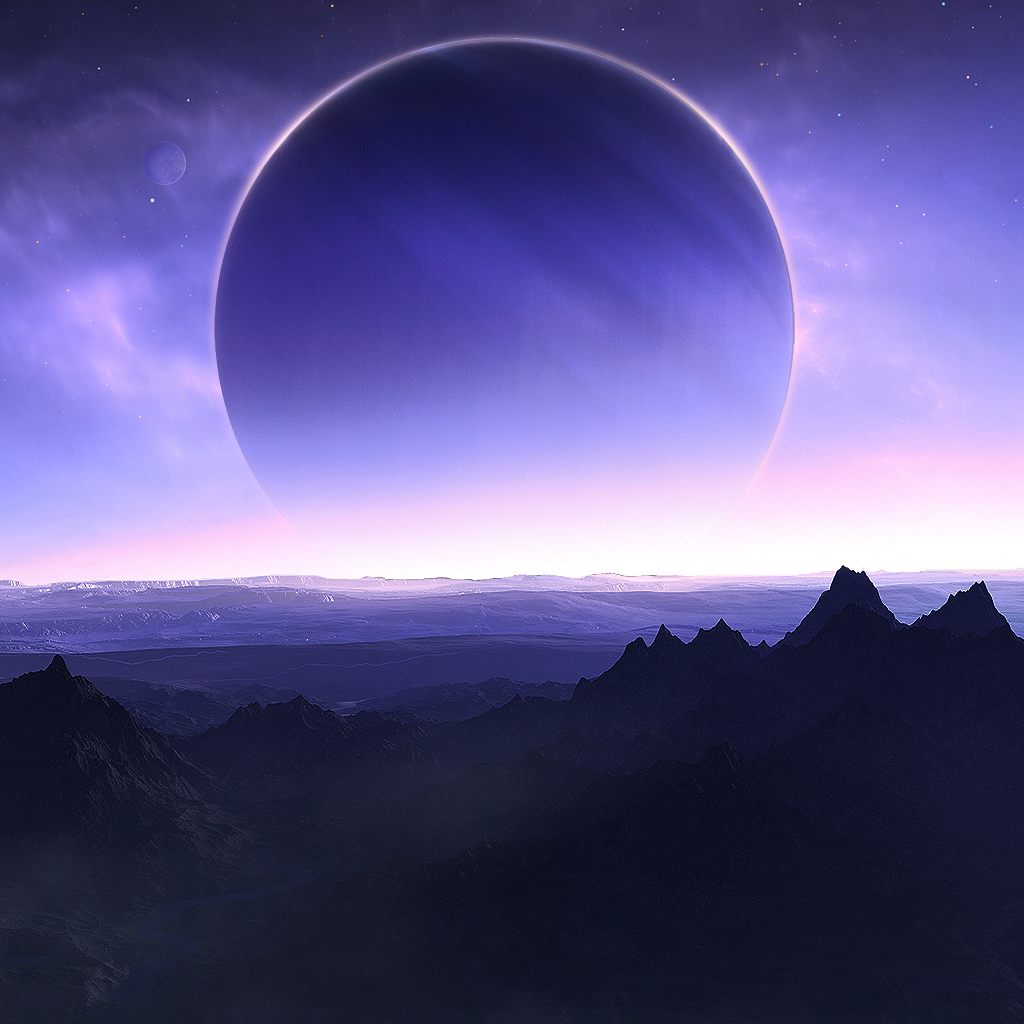
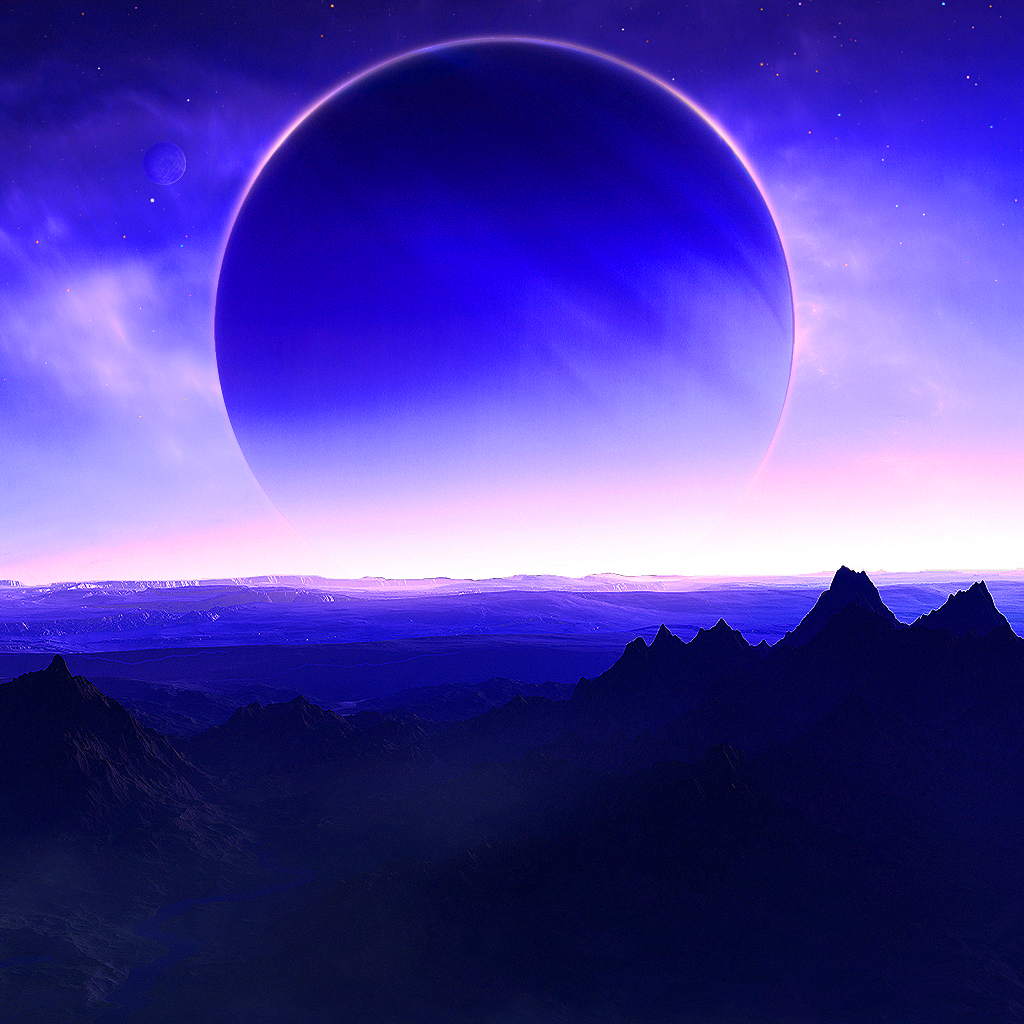
CubeMap is now rendering!!

diff --git a/public/app/renderer/WebGLRenderer.js b/public/app/renderer/WebGLRenderer.js
@@ -10,8 +10,8 @@ Ext.define('MW.renderer.WebGLRenderer', {
         'MW.buffer.Vertex',
         'MW.buffer.Normal',
         'MW.buffer.Face',
-        'MW.buffer.Texture',
-	    'MW.buffer.Environment'
+        'MW.buffer.TextureCoordinate',
+	    'MW.buffer.EnvironmentCoordinate'
     ],
 	config: {
 		gl: null,
@@ -72,11 +72,15 @@ Ext.define('MW.renderer.WebGLRenderer', {
             shaderProgram.nMatrixUniform = gl.getUniformLocation(shaderProgram, "uNMatrix");
             shaderProgram.useTextureUniform = gl.getUniformLocation(shaderProgram, "useTexture");
             shaderProgram.useLightingUniform = gl.getUniformLocation(shaderProgram, "useLighting");
+			shaderProgram.useEnvironmentMapUniform = gl.getUniformLocation(shaderProgram, "useEnvironmentMap");
 
             shaderProgram.uLightPos = gl.getUniformLocation(shaderProgram, "uLightPos");
             shaderProgram.uLightColor = gl.getUniformLocation(shaderProgram, "uLightColor");
 
             shaderProgram.uDiffuseColor = gl.getUniformLocation(shaderProgram, "uDiffuseColor");
+
+			shaderProgram.uSampler = gl.getUniformLocation(shaderProgram, "uSampler");
+			shaderProgram.uEnvironmentMap = gl.getUniformLocation(shaderProgram, "uEnvironmentMap");
             this.setShaderProgram(shaderProgram);
             this.fireEvent('loaded');
         });
@@ -133,42 +137,45 @@ Ext.define('MW.renderer.WebGLRenderer', {
 
 		if (object.isRenderable()) {
 			this.bindBuffers(gl, object, shaderProgram);
-			var useTexture = object.textureBuffer !== undefined;
-			var useEnvironmentMap = object.environmentMapBuffer !== undefined;
+			var useTexture = object.hasMaterial() && object.getMaterial().hasTexture();
+			var useEnvironmentMap = object.hasMaterial() && object.getMaterial().hasEnvironmentMap();
             var material = object.getMaterial();
 
             gl.uniform4fv(shaderProgram.uDiffuseColor, material.getColor().getArray());
 
             if (useTexture) {
 	            var texture = material.getTexture();
-	            if (texture !== null && texture.isLoaded() && object.textureBuffer.texture === undefined) {
-		            object.textureBuffer.texture = this.loadTexture(gl, object, texture);
+	            if (texture !== null && texture.isLoaded() && object.__webglTexture === undefined) {
+		            object.__webglTexture = this.loadTexture(gl, object, texture);
 	            }
             }
 
 			if (useEnvironmentMap) {
 				var environmentMap = material.getEnvironmentMap();
 				if (environmentMap.isLoaded()) {
-					if (object.texture === undefined) {
-						this.loadEnvironmentMap(gl, object, environmentMap);
+					if (object.__webglEnvironmentMap === undefined) {
+						object.__webglEnvironmentMap = this.loadEnvironmentMap(gl, object, environmentMap);
 					}
 					this.applyEnvironmentMap(gl, object, shaderProgram);
-					gl.uniform1i(shaderProgram.useTextureUniform, 1);
+					gl.uniform1i(shaderProgram.useTextureUniform, 0);
+					gl.uniform1i(shaderProgram.useEnvironmentMapUniform, 1);
 				}
 			}
-			else if (useTexture && texture !== null && texture.isLoaded()) {
+			else if (useTexture && material.getTexture().isLoaded()) {
                 this.applyTexture(gl, object, shaderProgram);
                 gl.uniform1i(shaderProgram.useTextureUniform, 1);
+				gl.uniform1i(shaderProgram.useEnvironmentMapUniform, 0);
 			} else {
                 gl.disableVertexAttribArray(shaderProgram.textureCoordAttribute);
                 gl.uniform1i(shaderProgram.useTextureUniform, 0);
+				gl.uniform1i(shaderProgram.useEnvironmentMapUniform, 0);
 			}
 
             gl.uniform1i(shaderProgram.useLightingUniform, material.getUseLighting());
 
 			// Update the WebGL uniforms and then draw the object on the screen
 			this.updateUniforms(gl, shaderProgram, cursorCopy, camera);
-			gl.drawElements(gl.TRIANGLES, object.faceBuffer.numItems * object.faceBuffer.itemSize, gl.UNSIGNED_SHORT, 0);
+			gl.drawElements(gl.TRIANGLES, object.__webglFaceBuffer.numItems, gl.UNSIGNED_SHORT, 0);
 		}
 
 		this.renderChildren(gl, object, shaderProgram, cursorCopy, camera);
@@ -183,17 +190,17 @@ Ext.define('MW.renderer.WebGLRenderer', {
     bindBuffers: function (gl, object, shaderProgram) {
         this.checkBuffer(gl, object);
         // Update the object position
-        var vertexBuffer = object.vertexBuffer;
+        var vertexBuffer = object.__webglVertexBuffer;
         gl.bindBuffer(gl.ARRAY_BUFFER, vertexBuffer);
         gl.vertexAttribPointer(shaderProgram.vertexPositionAttribute, vertexBuffer.itemSize, gl.FLOAT, false, 0, 0);
 
         // Update the object normals
-        var normalBuffer = object.normalBuffer;
+        var normalBuffer = object.__webglNormalBuffer;
         gl.bindBuffer(gl.ARRAY_BUFFER, normalBuffer);
         gl.vertexAttribPointer(shaderProgram.vertexNormalAttribute, normalBuffer.itemSize, gl.FLOAT, false, 0, 0);
 
         // Update the object faces
-        var faceBuffer = object.faceBuffer;
+        var faceBuffer = object.__webglFaceBuffer;
         gl.bindBuffer(gl.ELEMENT_ARRAY_BUFFER, faceBuffer);
     },
     /**
@@ -203,21 +210,22 @@ Ext.define('MW.renderer.WebGLRenderer', {
      * @param object The object to render
      */
     checkBuffer: function (gl, object) {
-        if (object.vertexBuffer === undefined) {
+        if (object.__webglBuffers !== true) {
             // attach the buffers to the current child object
             var geometry = object.getGeometry();
-            object.vertexBuffer = Ext.create('MW.buffer.Vertex').load(gl, geometry);
-            object.normalBuffer = Ext.create('MW.buffer.Normal').load(gl, geometry);
-            object.faceBuffer = Ext.create('MW.buffer.Face').load(gl, geometry);
+            object.__webglVertexBuffer = Ext.create('MW.buffer.Vertex').load(gl, geometry);
+            object.__webglNormalBuffer = Ext.create('MW.buffer.Normal').load(gl, geometry);
+            object.__webglFaceBuffer = Ext.create('MW.buffer.Face').load(gl, geometry);
 			if (object.hasMaterial()) {
 				var material = object.getMaterial();
 				if (material.hasTexture()) {
-					object.textureBuffer = Ext.create('MW.buffer.Texture').load(gl, object);
+					object.__webglTextureCoordinateBuffer = Ext.create('MW.buffer.TextureCoordinate').load(gl, object);
 				}
 				if (material.hasEnvironmentMap()) {
-					object.environmentMapBuffer = Ext.create('MW.buffer.Environment').load(gl, object);
+					object.__webglEnvironmentCoordinateBuffer = Ext.create('MW.buffer.EnvironmentCoordinate').load(gl, object);
 				}
 			}
+			object.__webglBuffers = true;
         }
     },
     /**
@@ -230,11 +238,12 @@ Ext.define('MW.renderer.WebGLRenderer', {
     applyTexture: function (gl, object, shaderProgram) {
         gl.enableVertexAttribArray(shaderProgram.textureCoordAttribute);
         // Update the object texture
-        var textureBuffer = object.textureBuffer;
-        gl.bindBuffer(gl.ARRAY_BUFFER, textureBuffer);
-        gl.vertexAttribPointer(shaderProgram.textureCoordAttribute, textureBuffer.itemSize, gl.FLOAT, false, 0, 0);
+        var textureCoordinateBuffer = object.__webglTextureCoordinateBuffer;
+		var texture = object.__webglTexture;
+        gl.bindBuffer(gl.ARRAY_BUFFER, textureCoordinateBuffer);
+        gl.vertexAttribPointer(shaderProgram.textureCoordAttribute, textureCoordinateBuffer.itemSize, gl.FLOAT, false, 0, 0);
         gl.activeTexture(gl.TEXTURE0);
-        gl.bindTexture(gl.TEXTURE_2D, textureBuffer.texture);
+        gl.bindTexture(gl.TEXTURE_2D, texture);
         gl.uniform1i(shaderProgram.samplerUniform, 0);
     },
     /**
@@ -269,7 +278,15 @@ Ext.define('MW.renderer.WebGLRenderer', {
 	 * @param shaderProgram The WebGL shader program
 	 */
 	applyEnvironmentMap: function (gl, object, shaderProgram) { // todo too tired to fix dis
-		gl.uniform1i(shaderProgram.samplerUniform, 0); // ??
+		gl.enableVertexAttribArray(shaderProgram.textureCoordAttribute);
+		// Update the object texture
+		var textureCoordinateBuffer = object.__webglEnvironmentCoordinateBuffer;
+		var texture = object.__webglEnvironmentMap;
+		gl.bindBuffer(gl.ARRAY_BUFFER, textureCoordinateBuffer);
+		gl.vertexAttribPointer(shaderProgram.textureCoordAttribute, textureCoordinateBuffer.itemSize, gl.FLOAT, false, 0, 0);
+		gl.activeTexture(gl.TEXTURE1);
+		gl.bindTexture(gl.TEXTURE_CUBE_MAP, texture);
+		gl.uniform1i(shaderProgram.uEnvironmentMap, 1);
 	},
 	/**
 	 * Loads an environment map into WebGL.
@@ -294,7 +311,6 @@ Ext.define('MW.renderer.WebGLRenderer', {
 			[map.getBackImage(), gl.TEXTURE_CUBE_MAP_POSITIVE_Z],
 			[map.getFrontImage(), gl.TEXTURE_CUBE_MAP_NEGATIVE_Z]
 		];
-		object.texture = texture;
 
 		var faces = object.faces;
 		for (var i = 0; i < faces.length; i++) {
@@ -305,6 +321,8 @@ Ext.define('MW.renderer.WebGLRenderer', {
 			gl.texImage2D(face, 0, gl.RGBA, gl.RGBA, gl.UNSIGNED_BYTE, image);
 			gl.bindTexture(gl.TEXTURE_CUBE_MAP, null);
 		}
+
+		return texture;
 	},
 	/**
 	 * Updates the uniform constants given to WebGL

diff --git a/public/app/buffer/EnvironmentCoordinate.js b/public/app/buffer/EnvironmentCoordinate.js
@@ -1,7 +1,7 @@
 /**
  * @author Monica Olejniczak
  */
-Ext.define('MW.buffer.Environment', {
+Ext.define('MW.buffer.EnvironmentCoordinate', {
 	extend: 'MW.buffer.Buffer',
 	constructor: function () {
 		this.callParent(arguments);
@@ -18,11 +18,11 @@ Ext.define('MW.buffer.Environment', {
 			var material = mesh.getMaterial();
 			if (material.hasEnvironmentMap()) {
 				var environmentBuffer = gl.createBuffer();
-				var vertices = mesh.getGeometry().getVertices();
 				gl.bindBuffer(gl.ARRAY_BUFFER, environmentBuffer);
-				gl.bufferData(gl.ARRAY_BUFFER, new Float32Array(vertices), gl.STATIC_DRAW);
-				environmentBuffer.itemSize = this.superclass.self.VERTEX_DIMENSION;
-				environmentBuffer.numItems = vertices.length / environmentBuffer.itemSize;
+				var textureCoordinates = mesh.getGeometry().getFlattenedTextureCoordinates();
+				gl.bufferData(gl.ARRAY_BUFFER, textureCoordinates, gl.STATIC_DRAW);
+				environmentBuffer.itemSize = this.superclass.self.TEXTURE_DIMENSION;
+				environmentBuffer.numItems = textureCoordinates.length / environmentBuffer.itemSize;
 				this.setBuffer(environmentBuffer);
 				return environmentBuffer;
 			}

diff --git a/public/app/game/MechWarrior.js b/public/app/game/MechWarrior.js
@@ -53,13 +53,13 @@ Ext.define('MW.game.MechWarrior', {
             b: 0,
             a: 1
         });
+//		gl = WebGLDebugUtils.makeDebugContext(gl);
 		this.renderer = Ext.create('MW.renderer.WebGLRenderer', {
             gl: gl,
             width: canvas.width,
             height: canvas.height,
             backgroundColor: backgroundColor
 		}).on('loaded', function () {
-            //gl = WebGLDebugUtils.makeDebugContext(gl);
             // load the player model and add it to the scene
             var player = Ext.create('MW.game.character.Player');
             this.camera.setTarget(player);

diff --git a/public/app/buffer/Face.js b/public/app/buffer/Face.js
@@ -20,7 +20,7 @@ Ext.define('MW.buffer.Face', {
         var faces = geometry.getFlattenedFaces();
         gl.bufferData(gl.ELEMENT_ARRAY_BUFFER, faces, gl.STATIC_DRAW);
         faceBuffer.itemSize = this.superclass.self.VERTEX_DIMENSION;
-        faceBuffer.numItems = faces.length / faceBuffer.itemSize;
+        faceBuffer.numItems = faces.length;
         this.setBuffer(faceBuffer);
 		return faceBuffer;
     }

diff --git a/public/app/game/level/Level.js b/public/app/game/level/Level.js
@@ -40,7 +40,8 @@ Ext.define('MW.game.level.Level', {
         this.setPlayers([]);
         this.setObstacles([]);
         this.setProjectiles([]);
-        this.setChildren([floor, skybox]);
+		this.addChild(floor);
+		this.addChild(skybox);
     },
     /**
      * Adds a player to the level.

diff --git a/public/app/buffer/TextureCoordinate.js b/public/app/buffer/TextureCoordinate.js
@@ -2,7 +2,7 @@
  * @author Brendan Annable
  * @author Monica Olejniczak
  */
-Ext.define('MW.buffer.Texture', {
+Ext.define('MW.buffer.TextureCoordinate', {
     extend: 'MW.buffer.Buffer',
 	constructor: function () {
 		this.callParent(arguments);

diff --git a/public/app/game/character/Player.js b/public/app/game/character/Player.js
@@ -15,7 +15,7 @@ Ext.define('MW.game.character.Player', {
     ],
     config: {
         health: 1000,
-		mass: 40
+		mass: 50
     },
 	constructor: function (config) {
 		this.callParent(arguments);

diff --git a/public/app/shader/fragment/fragment.c b/public/app/shader/fragment/fragment.c
@@ -7,6 +7,7 @@ uniform vec3 uLightColor;
 uniform vec4 uDiffuseColor;
 uniform bool useTexture;
 uniform bool useLighting;
+uniform bool useEnvironmentMap;
 
 // The linearly interpolated values from the vertex shader
 varying vec3 vPosition;
@@ -16,16 +17,17 @@ varying vec4 vColor;
 // textures
 varying highp vec2 vTextureCoord;
 uniform sampler2D uSampler;
+uniform samplerCube uEnvironmentMap;
 
 void main(void) {
 	// normalize the normal as the interpolated value may not be of unit length
 	vec3 normal = normalize(vNormal);
 
-	if (!gl_FrontFacing) {
+	/*if (!gl_FrontFacing) {
 		// flip the normal if we're lighting the back of the surface
 		// Note: This will likely be disabled once we get non-hollow objects
 		normal = -normal;
-	}
+	}*/
 
 	// Ambient lighting colour and intensity
 	vec3 ambientLighting = vec3(0.1, 0.0, 0.0);
@@ -51,7 +53,9 @@ void main(void) {
 	float directionalLightWeight = max(dot(normal, normalize(directionLightVector)), 0.0);
 
     // Colour the pixel based on the original colour and the various lighting factors
-	if (useTexture) {
+    if (useEnvironmentMap) {
+        gl_FragColor = textureCube(uEnvironmentMap, normalize(vPosition));
+    } else if (useTexture) {
         gl_FragColor = texture2D(uSampler, vec2(vTextureCoord.s, vTextureCoord.t));
     } else {
     	gl_FragColor = vColor;
@@ -61,8 +65,9 @@ void main(void) {
         gl_FragColor = gl_FragColor * vec4(
             ambientLighting
             + uLightColor * diffuseLightWeight
-            + directionalLightColor * directionalLightWeight,
-        1);
+            + directionalLightColor * directionalLightWeight
+        , 1);
     }
-//		gl_FragColor = vec4(vNormal, 1);
+
+//	gl_FragColor = vec4(vNormal, 1);
 }
